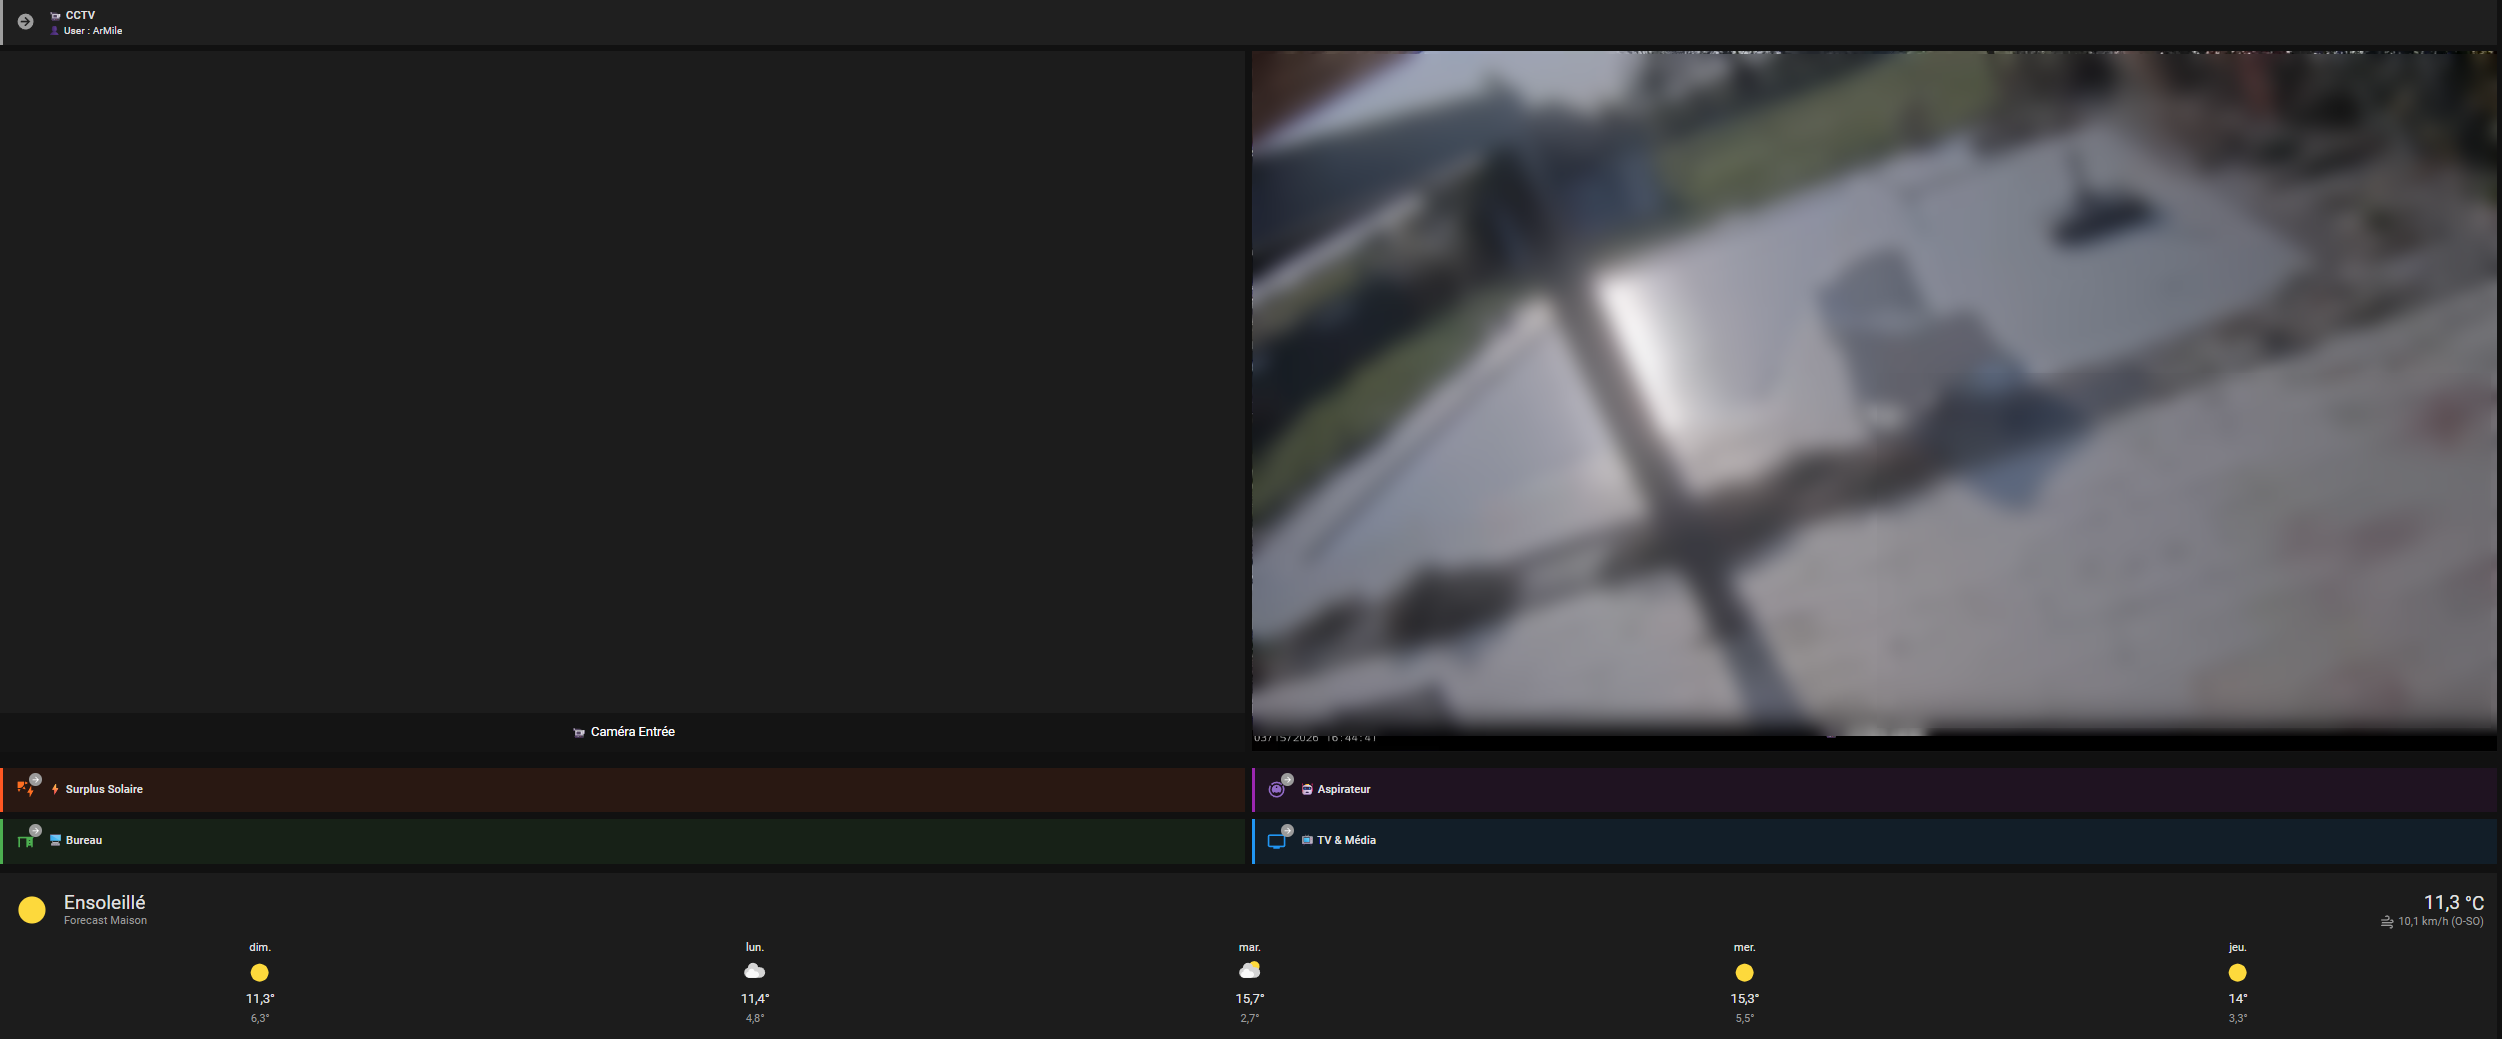
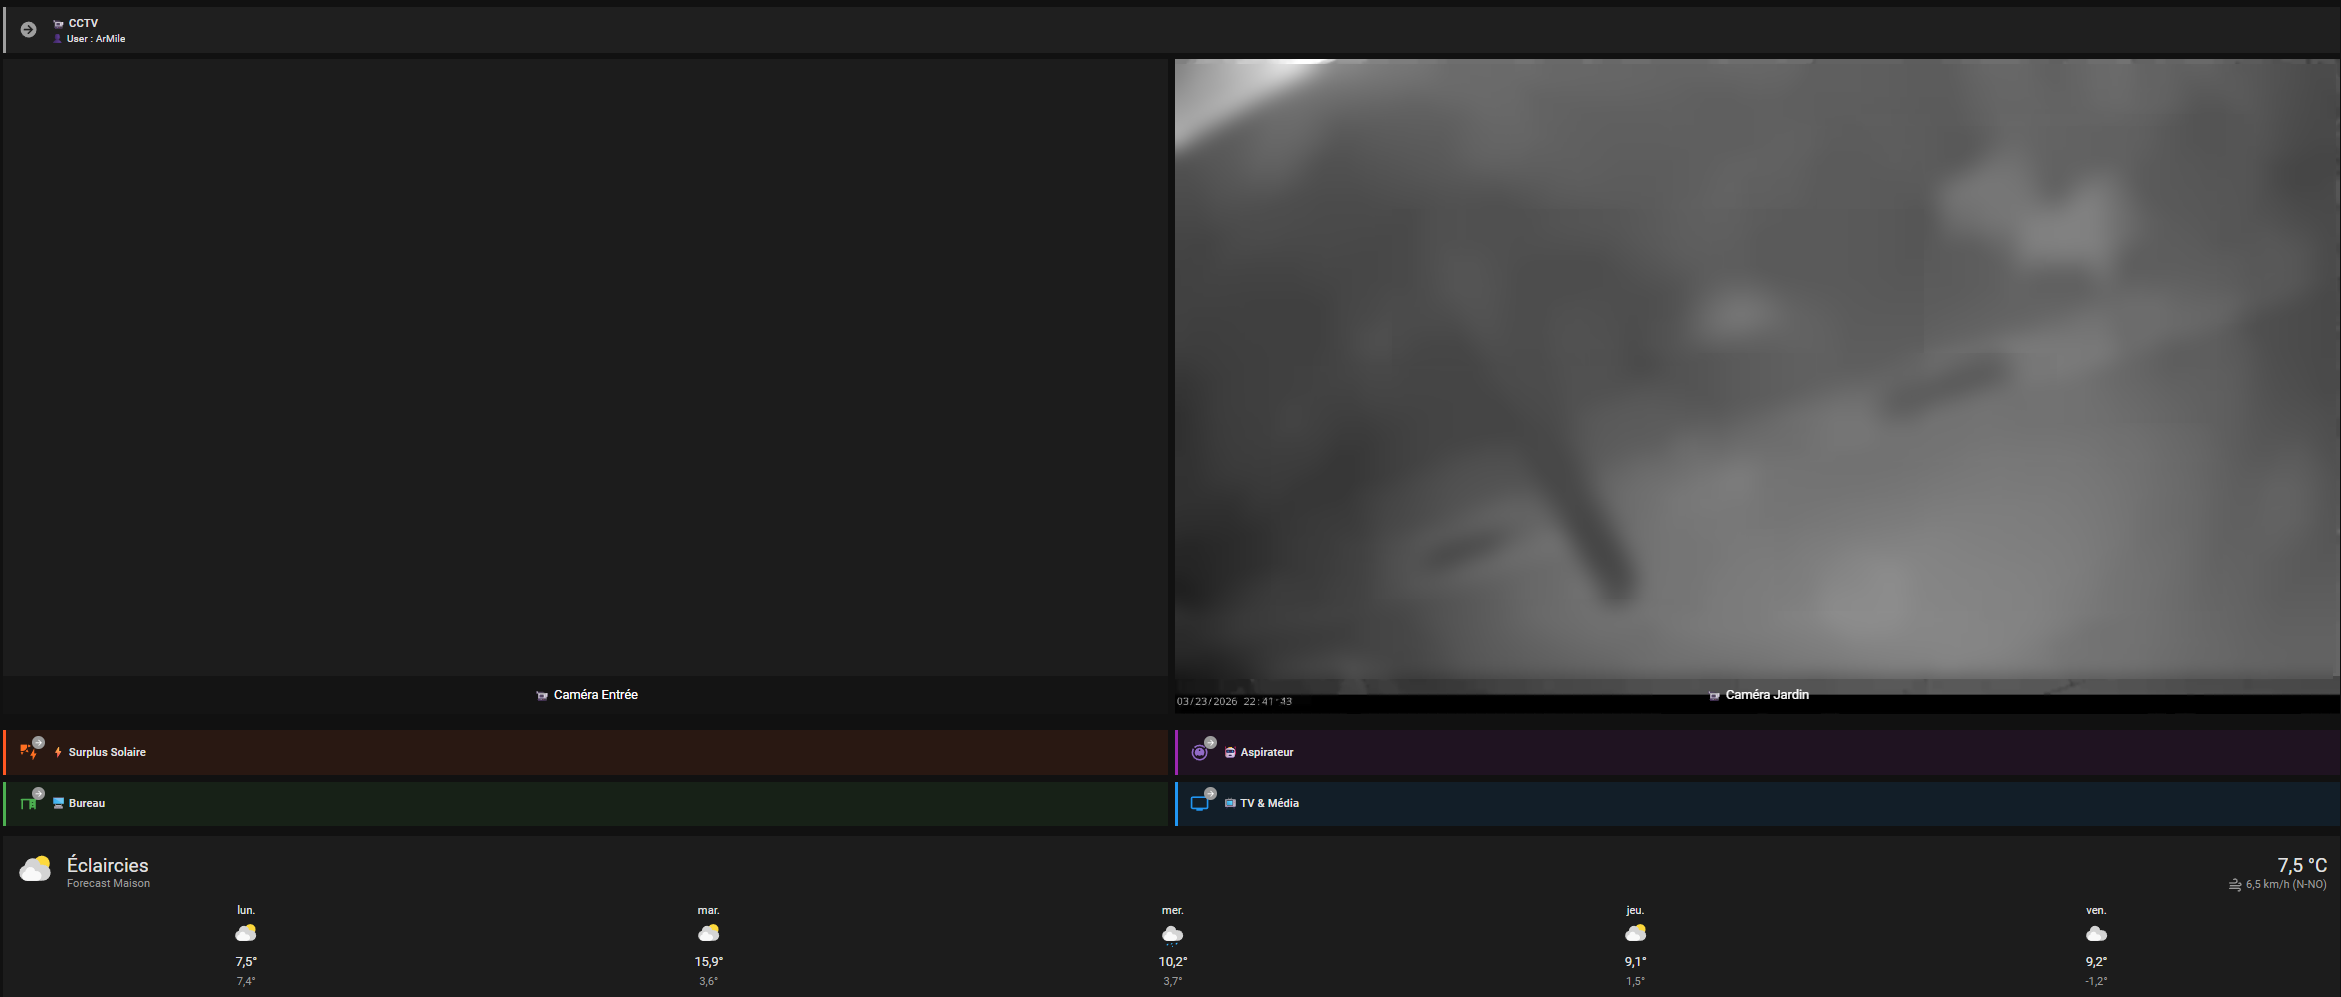
update Dashboard Accueil

diff --git a/README.md b/README.md
@@ -1,6 +1,7 @@
 # Home Assistant - Configuration & Détails
 
 Configuration complète de mon installation Home Assistant, organisée par fonctionnalité.
+23/03/2026 : Modification des graph Energie + Températures. Ajouts rapide Portail et portes de Garage. Redirection vers nouveau Dashboard "Modes Planing" sur chips clignotant du mode de planning actif
 
 ## Dashboard Accueil
 
